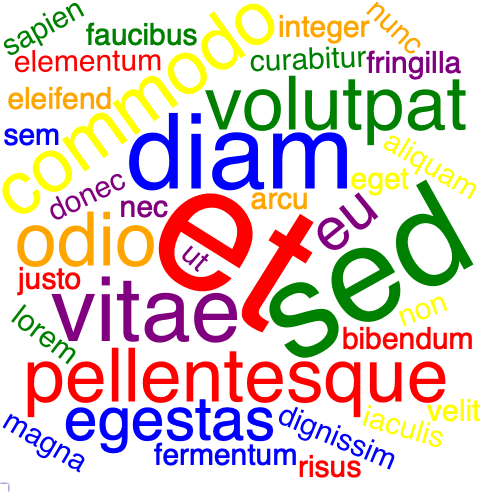
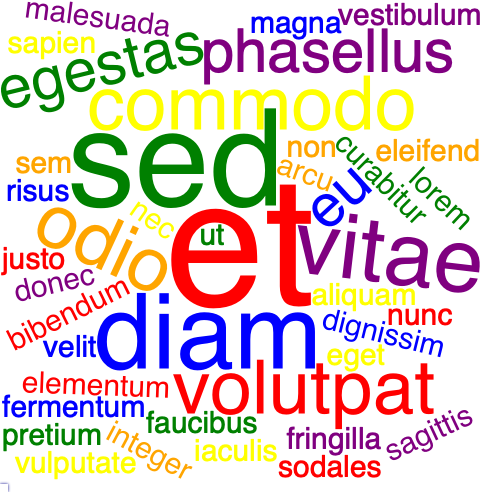
random text and update readme

diff --git a/README.md b/README.md
@@ -1,1 +1,17 @@
 # emmas_wordcloud
+
+My wife, Emma asked me to make a word cloud for her class in school, so I just
+put this one together for her.
+
+I used lorem ipsum to generate random words, as she didn't want to have her pupil names to be public.
+
+I used following libraries for this quick project:
+
+* tidytext
+* dplyr
+* wordcloud2
+* text2vec
+
+I also experimented with "wordcloud" library, but I discarded it as it was a bit boring.
+
+Next I'd like to make a shiny app that would generate wordclouds. 
